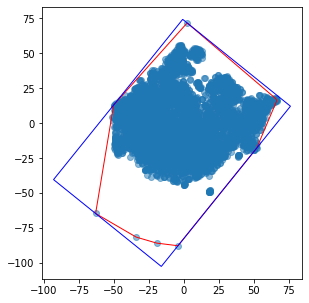
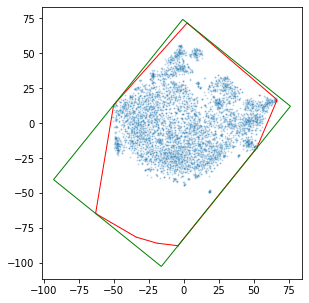
New plots for README

diff --git a/README.md b/README.md
@@ -52,7 +52,7 @@ it = ImageTransformer(feature_extractor='tsne',
                       n_jobs=-1)
 ```
 
-Train image transformer on training data. Setting plot=True results in at a plot showing the reduced features (blue points), convex full (red), and minimum bounding rectagle (blue box) prior to rotation.
+Train image transformer on training data. Setting plot=True results in at a plot showing the reduced features (blue points), convex full (red), and minimum bounding rectagle (green) prior to rotation.
 
 ```python
 plt.figure(figsize=(5, 5))
